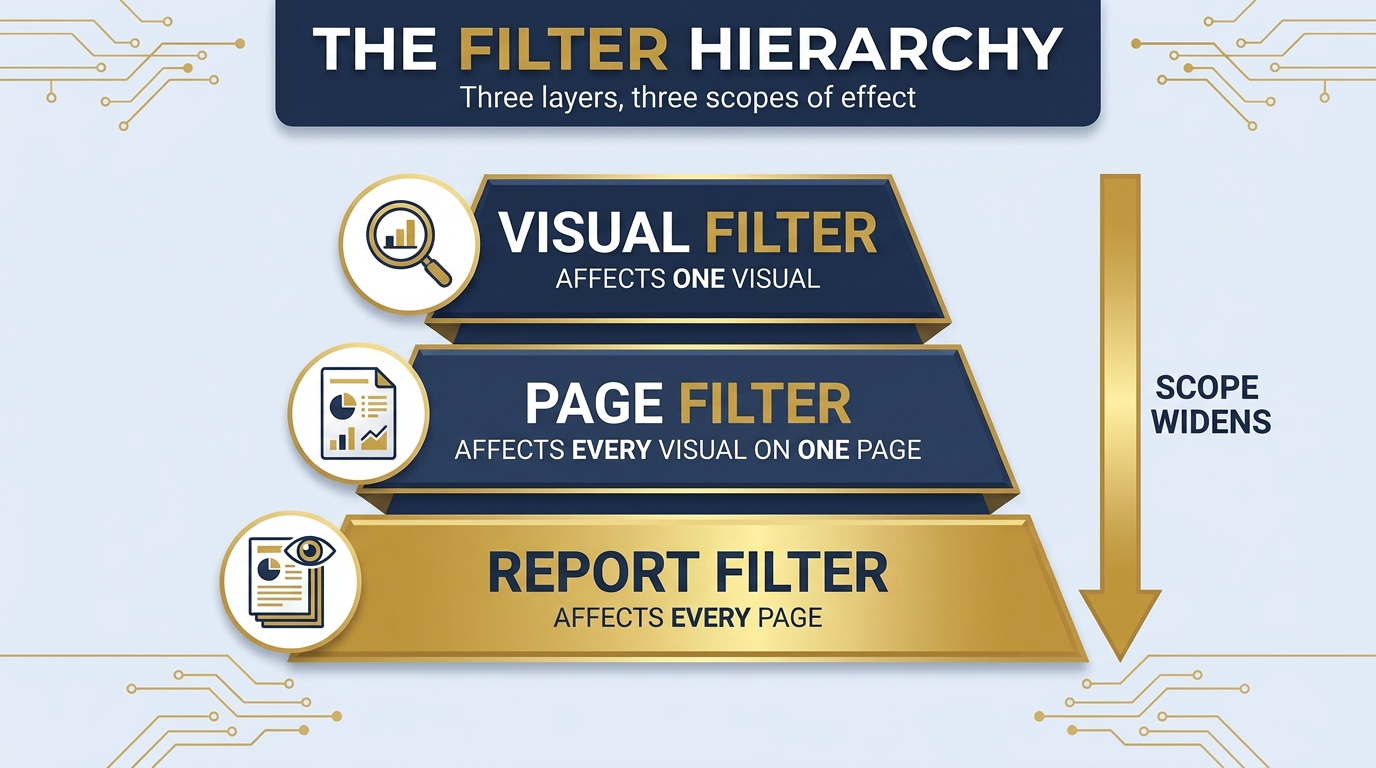
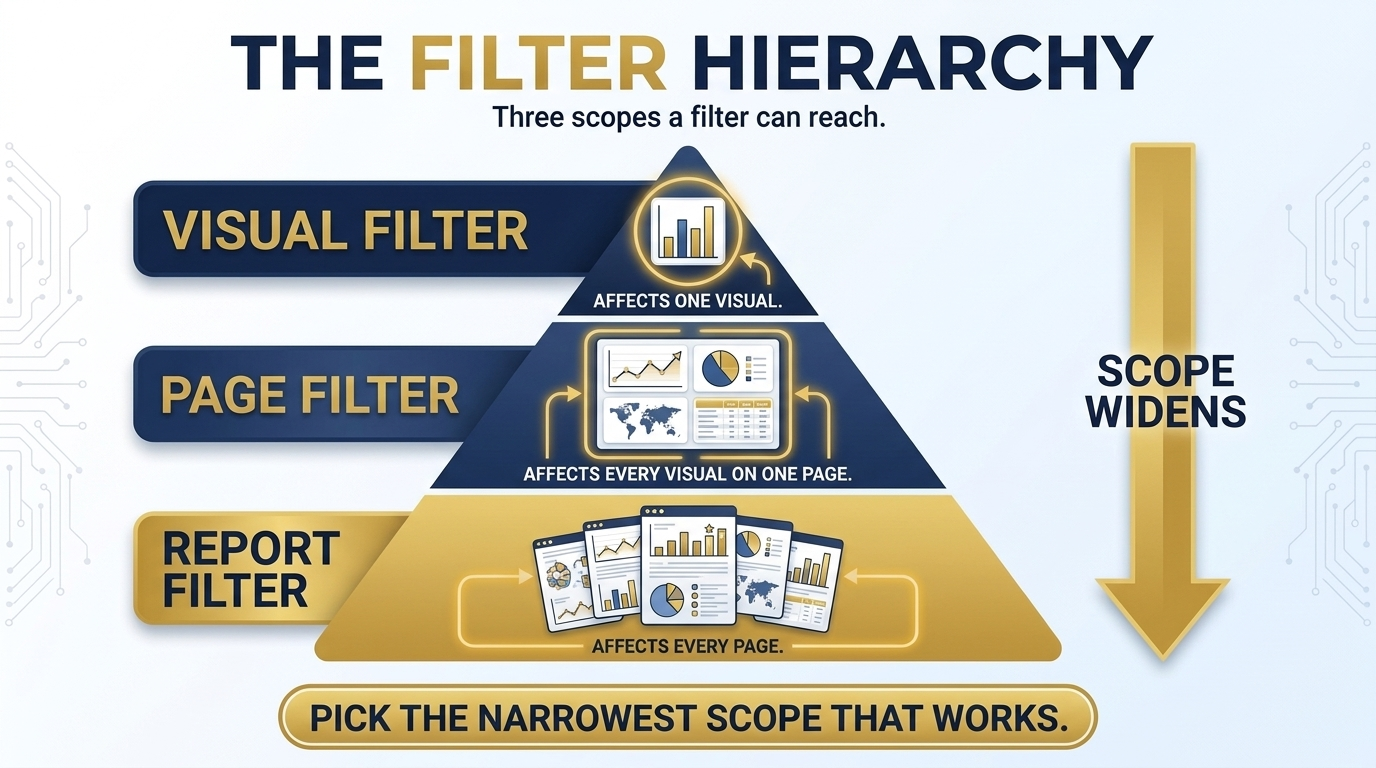
Restyle Chapter 4 inner figures as ai4educators-style master infographics
Rebuild Chapter 4's inner figures in the dense, richly illustrated
master-infographic style: the filter hierarchy (three-tier pyramid),
editing interactions (row diagram of clicked-visual responses), and
match-the-question-to-the-tool (illustrated card row). Each figure
depicts its concept rather than labelling it; the chapter's four
figures use four distinct compositions.

- Figure HTML-comment prompt blocks and alt text updated to match.
- Builds clean with no MyST warnings.

diff --git a/chapters/ch04-interactive-storytelling.md b/chapters/ch04-interactive-storytelling.md
@@ -119,10 +119,11 @@ Power BI gives you three scopes, and they live together in one place — the **F
 NANO BANANA PRO — CHAPTER 4 FIGURE 2 (concept infographic)
 File: images/ch04/fig-4-2-filter-hierarchy.png
 Title: The Filter Hierarchy
-Concept: The three scopes a filter can have — visual, page, report — drawn as nested tiers of widening reach.
-Archetype: Pyramid / ladder — three stacked tiers, narrowest at top.
-Reference: images/_style-reference/fig-3-2-two-reactions.png
-Labels: tiers VISUAL FILTER / AFFECTS ONE VISUAL, PAGE FILTER / AFFECTS EVERY VISUAL ON ONE PAGE, REPORT FILTER / AFFECTS EVERY PAGE; side arrow "SCOPE WIDENS".
+Concept: The three scopes a filter can have — visual, page, report — drawn as a pyramid of widening reach.
+Archetype: Rich three-tier pyramid — each tier illustrated with what it affects, plus a side SCOPE WIDENS arrow; ai4educators master-infographic style, navy/gold.
+Reference (composition): ../../.ref-ai4ed/ai4ed-ch01-fig-bloom.png
+Reference (palette): images/ch04/fig-4-1-ch4-at-a-glance.png
+Labels: tiers VISUAL FILTER / AFFECTS ONE VISUAL, PAGE FILTER / AFFECTS EVERY VISUAL ON ONE PAGE, REPORT FILTER / AFFECTS EVERY PAGE; side arrow SCOPE WIDENS; banner "PICK THE NARROWEST SCOPE THAT WORKS".
 Palette: navy #1B2A47, gold #C9A23A, white / pale-blue background.
 -->
 
@@ -215,9 +216,10 @@ NANO BANANA PRO — CHAPTER 4 FIGURE 3 (concept infographic)
 File: images/ch04/fig-4-3-editing-interactions.png
 Title: Editing Interactions
 Concept: The three things a clicked visual can do to a neighbouring visual — filter, highlight, or none.
-Archetype: Row diagram — three full-width panels, each [icon badge + mode] · [bar-chart demonstration] · [pill verdict].
-Reference: images/_style-reference/fig-1-3-visual-encoding.png
-Labels: rows FILTER / OTHERS REFILTER, HIGHLIGHT / OTHERS DIM, NONE / OTHERS IGNORE; footer "ONE CLICK, THREE BEHAVIORS".
+Archetype: Rich row diagram — three panels, each a clicked source chart and the neighbour's response with a verdict pill; ai4educators master-infographic style, navy/gold.
+Reference (composition): ../../.ref-ai4ed/ai4ed-ch01-fig-struggle.png
+Reference (palette): images/ch04/fig-4-1-ch4-at-a-glance.png
+Labels: rows FILTER / OTHERS REFILTER, HIGHLIGHT / OTHERS DIM, NONE / OTHERS IGNORE; banner "ONE CLICK, THREE BEHAVIORS".
 Palette: navy #1B2A47, gold #C9A23A, white / pale-blue background.
 -->
 
@@ -404,9 +406,10 @@ NANO BANANA PRO — CHAPTER 4 FIGURE 4 (synthesis infographic)
 File: images/ch04/fig-4-4-question-to-tool.png
 Title: Match the Question to the Tool
 Concept: A decision framework — every audience follow-up question maps to one interactive feature from this chapter.
-Archetype: Card row — four titled cards, each [a question] → [the tool].
-Reference: images/_style-reference/fig-3-2-two-reactions.png
-Labels: cards "WHAT IF I ONLY WANT BIKES → SLICER", "WHY IS THAT BAR SO TALL → DRILL-THROUGH", "WHAT IS BEHIND THIS POINT → CUSTOM TOOLTIP", "SHOW ME THE SUMMARY VIEW → BOOKMARK"; banner "THE AUDIENCE ASKS, THE REPORT ANSWERS".
+Archetype: Rich card row — four tall illustrated cards, each a question with a drawn illustration of the matching tool; ai4educators master-infographic style, navy/gold.
+Reference (composition): ../../.ref-ai4ed/ai4ed-ch01-fig-tuesdays.png
+Reference (palette): images/ch04/fig-4-1-ch4-at-a-glance.png
+Labels: cards WHAT IF I ONLY WANT BIKES → SLICER, WHY IS THAT BAR SO TALL → DRILL-THROUGH, WHAT IS BEHIND THIS POINT → CUSTOM TOOLTIP, SHOW ME THE SUMMARY VIEW → BOOKMARK; banner "THE AUDIENCE ASKS, THE REPORT ANSWERS".
 Palette: navy #1B2A47, gold #C9A23A, white / pale-blue background.
 -->
 
